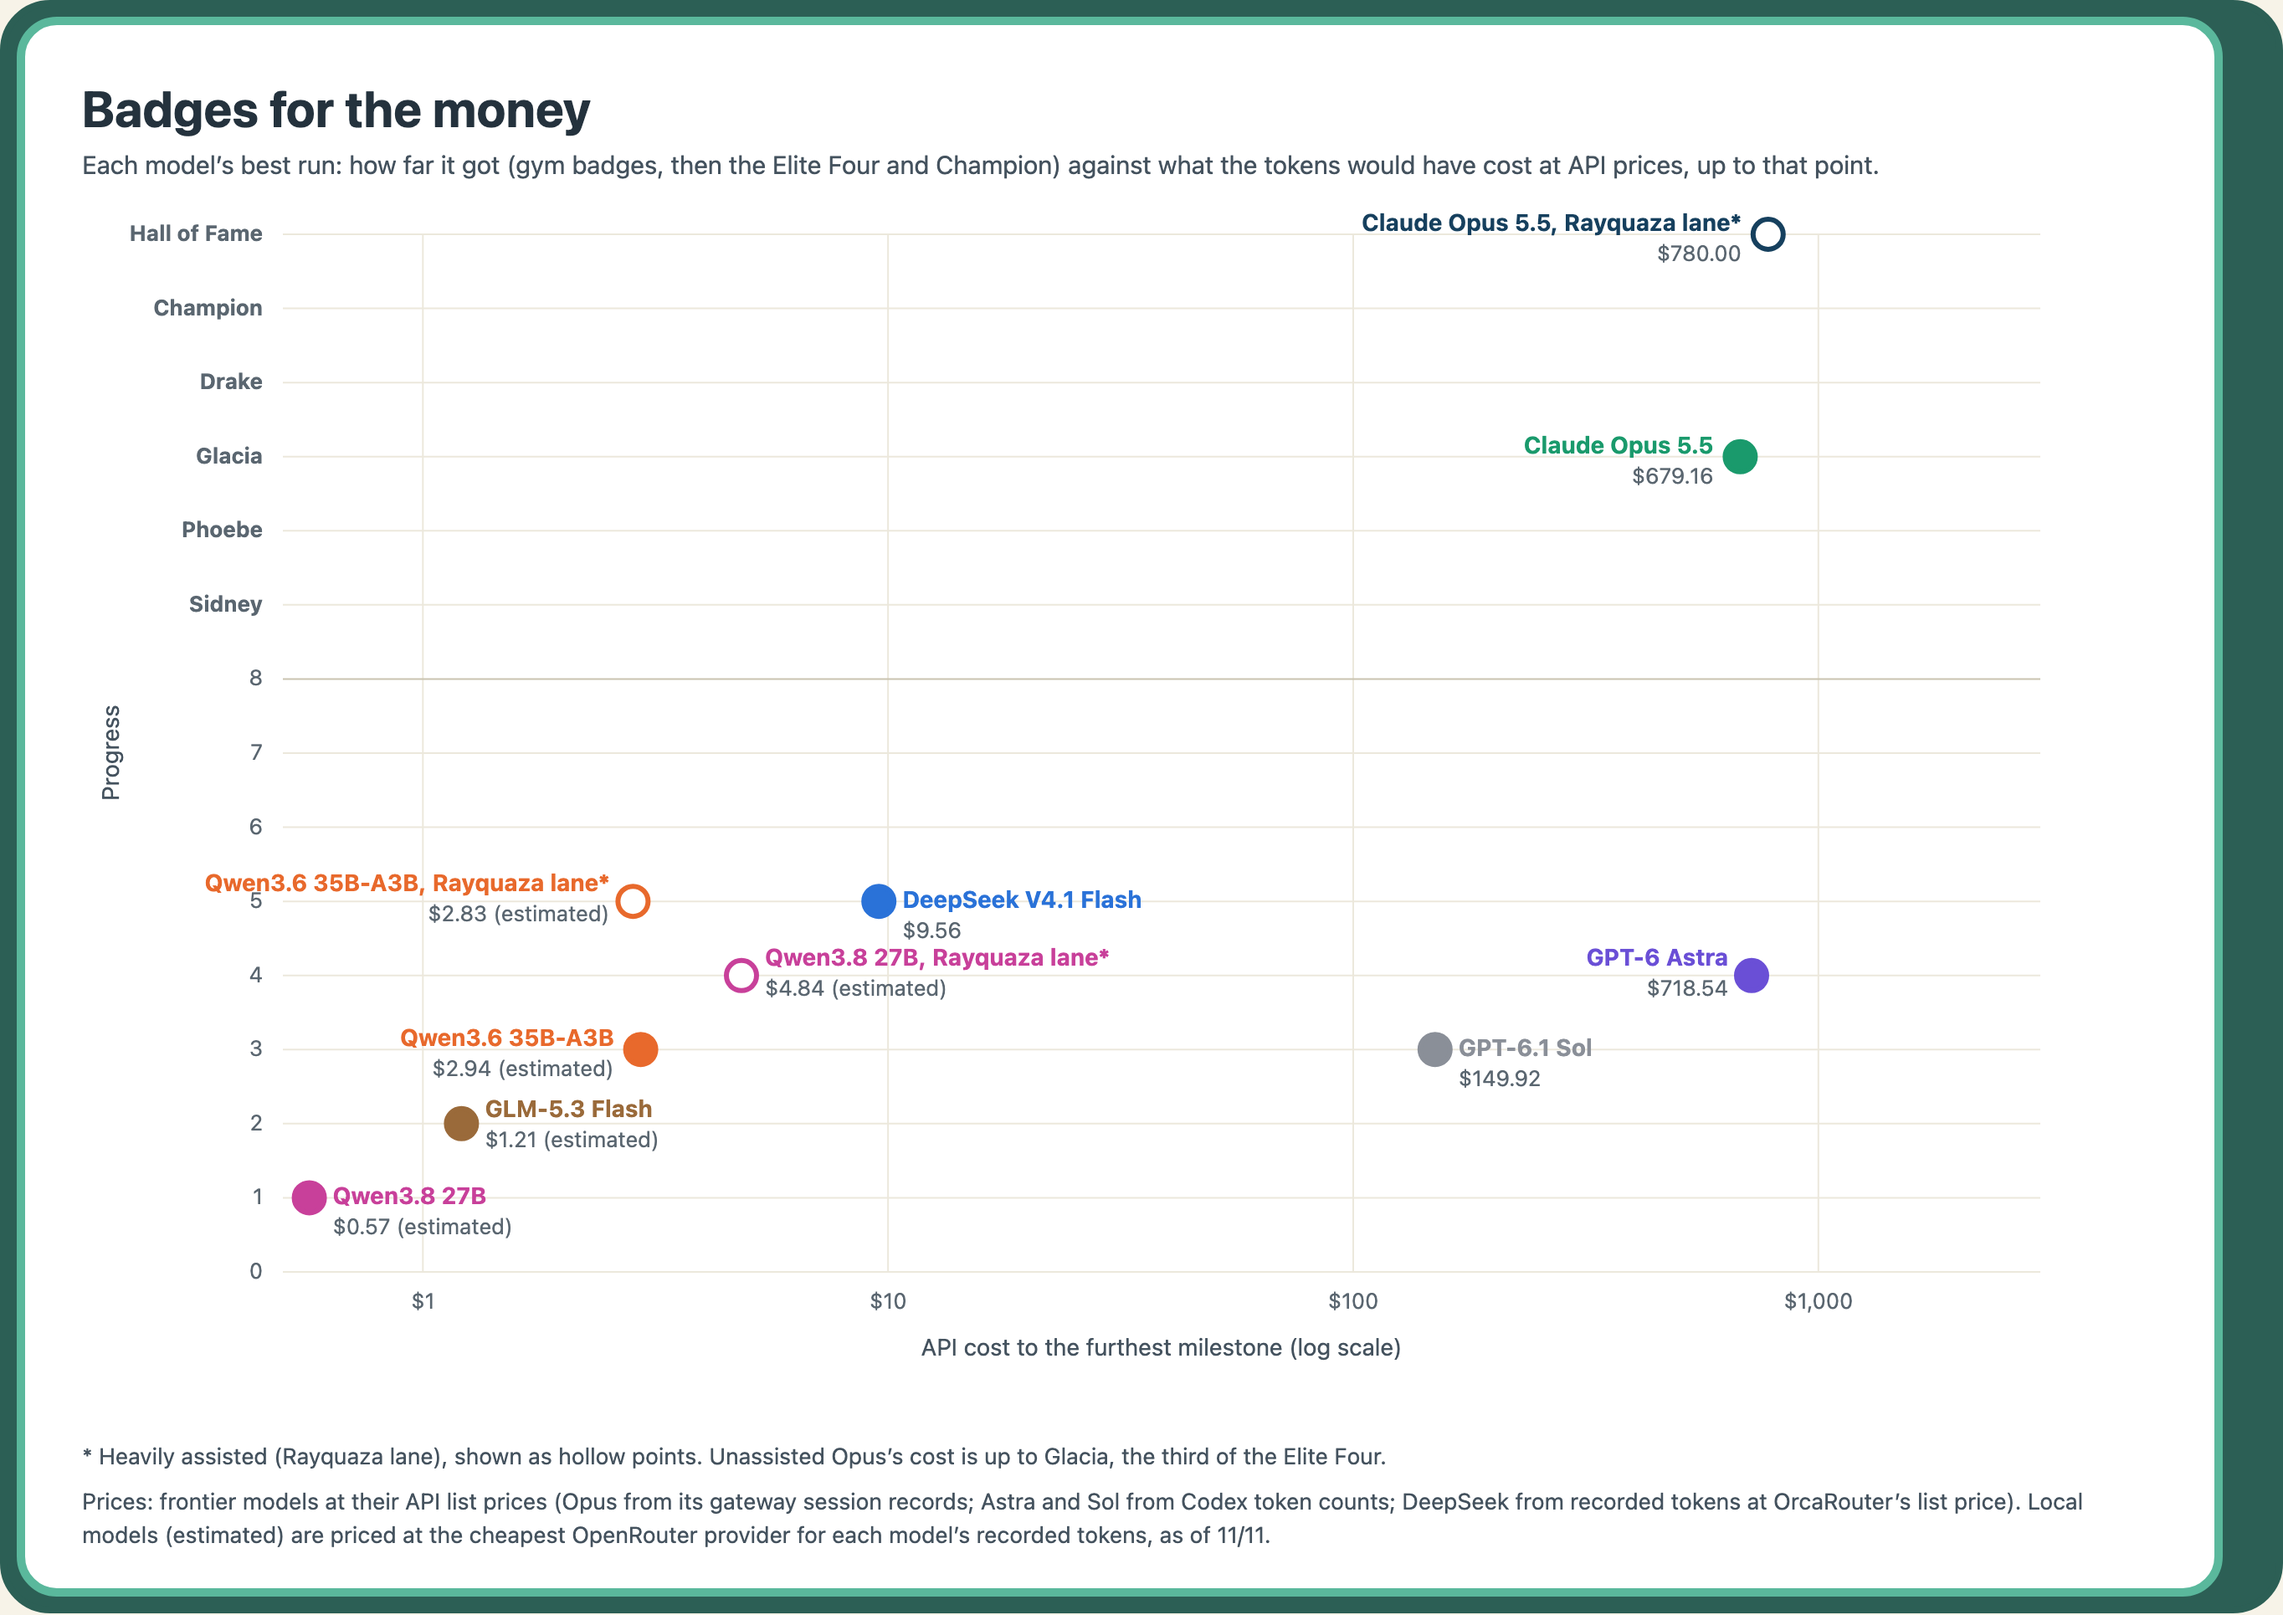
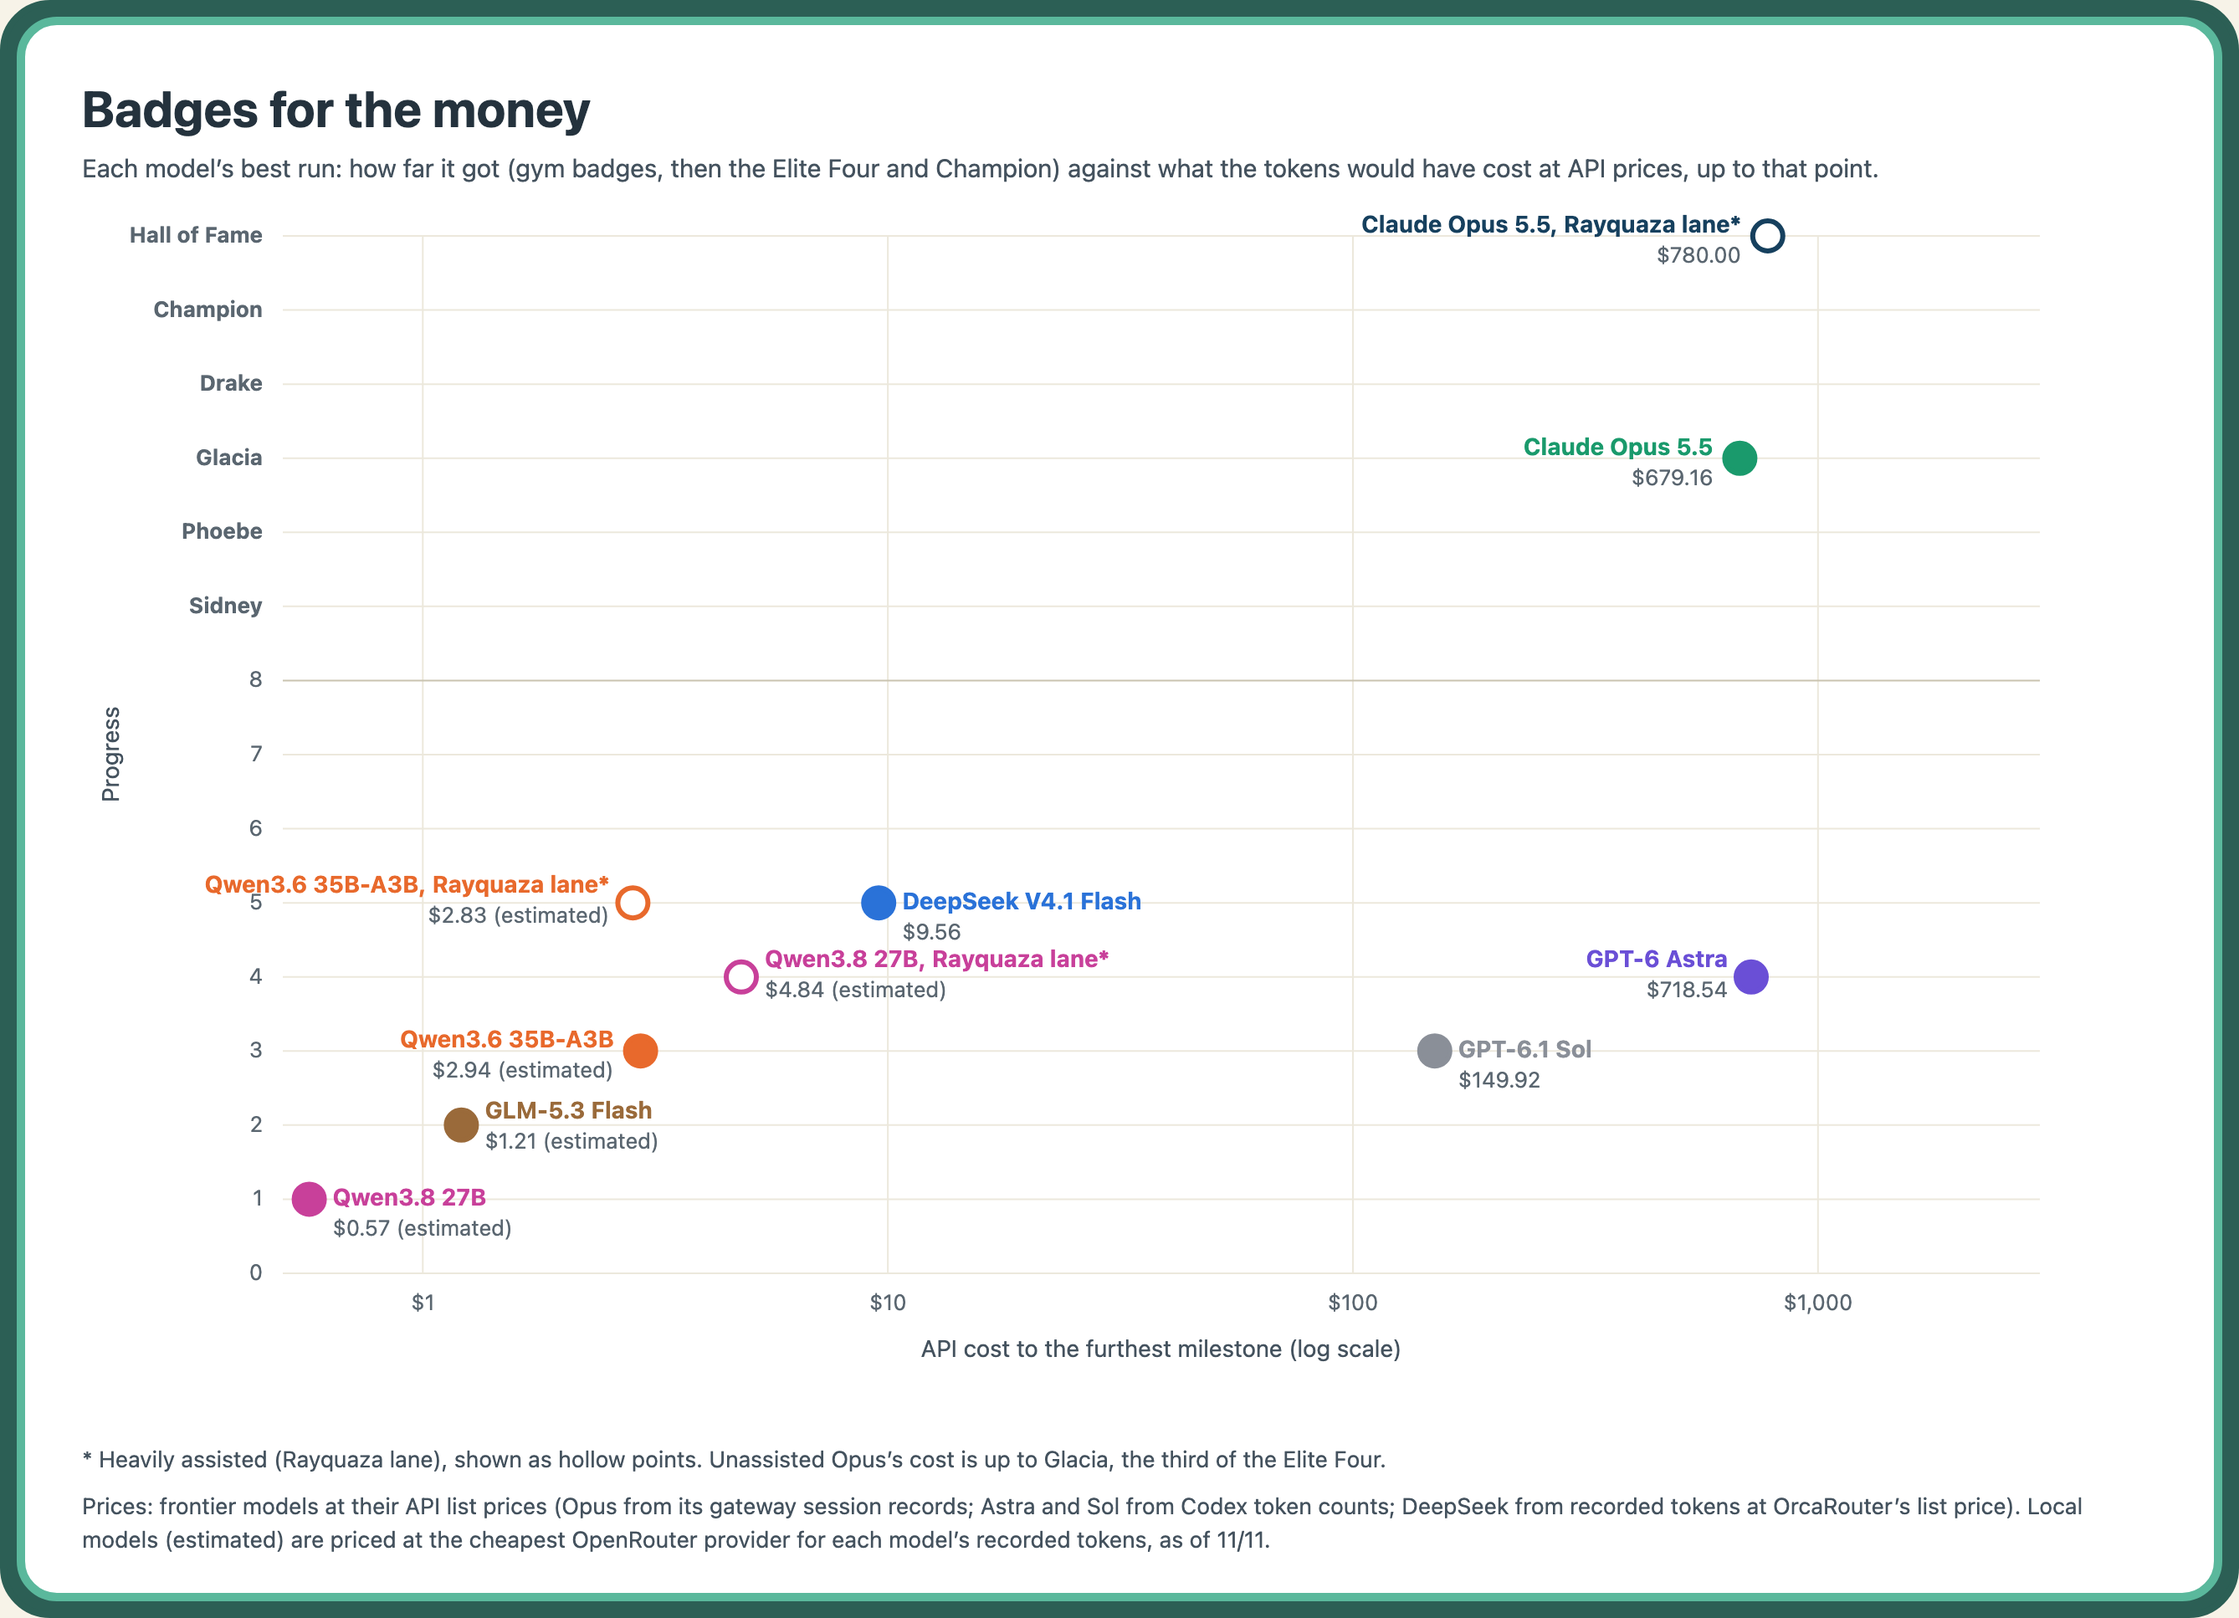
fix(charts): even outer border and no page strip on the README chart PNGs (GREEN)

diff --git a/env/pokebench_env/readme_charts.py b/env/pokebench_env/readme_charts.py
@@ -485,14 +485,18 @@ def endlabel(n: int) -> str:
 
 
 # .in is as wide as the charts' SVG, so the card never clips the legend's right edge whatever the
-# browser window; render with a viewport of at least 1400 px.
+# browser window; render with a viewport of at least 1400 px. The card hugs .in so the outer band is
+# even on every side, and whole-pixel line heights keep its height whole, so the element screenshot
+# takes no strip of page background.
 CSS = (
     "body{margin:0;background:#f7f3e8;font-family:-apple-system,BlinkMacSystemFont,"
     '"Helvetica Neue",Arial,sans-serif;color:#24323d}\n'
-    """.card{margin:18px;border:4px solid #2c5f55;border-radius:30px;padding:6px;background:#2c5f55}
-.in{background:#fff;border:5px solid #5ab89c;border-radius:24px;padding:28px 34px 22px;width:1240px}
-h1{font-size:30px;margin:4px 0 6px}p{margin:0;color:#44525e;font-size:15px;line-height:1.45}"""
-    ".note{margin-top:8px;font-size:13.5px}"
+    ".card{width:fit-content;margin:18px;border:4px solid #2c5f55;border-radius:30px;padding:6px;"
+    "background:#2c5f55}\n"
+    ".in{background:#fff;border:5px solid #5ab89c;border-radius:24px;padding:28px 34px 22px;"
+    "width:1240px}\nh1{font-size:30px;line-height:36px;margin:4px 0 6px}"
+    "p{margin:0;color:#44525e;font-size:15px;line-height:22px}"
+    ".note{margin-top:8px;font-size:13.5px;line-height:20px}"
 )
 
 

diff --git a/docs/worklogs/active/2026-11-11_readme-chart-border.md b/docs/worklogs/active/2026-11-11_readme-chart-border.md
@@ -11,9 +11,10 @@ The operator (2026-11-11): "why is the right border so large? looks weird and un
 
 ## Plan
 
-- [ ] `.card{width:fit-content}`; whole-pixel line heights for h1 (36 px), p (22 px) and .note (20 px).
-- [ ] Rebuild with `just readme-charts html`; measure all four outer bands in both PNGs (expect 20 px each at 2x) and confirm there is no cream strip.
+- [x] `.card{width:fit-content}`; whole-pixel line heights for h1 (36 px), p (22 px) and .note (20 px).
+- [x] Rebuild with `just readme-charts html`; measure all four outer bands in both PNGs (expect 20 px each at 2x) and confirm there is no cream strip.
 
 ## Log
 
 - 2026-11-11 5:25 PM: RED. test_card_hugs_the_chart_at_whole_pixel_heights fails.
+- 2026-11-11 5:32 PM: GREEN. `.card{width:fit-content}`; h1, p and .note line heights are 36, 22 and 20 px. 46 tests pass (no-I/O guard); ruff, format and mypy are clean; check-points matches. Rebuilt both PNGs (html stage run against the worktree module, since the recipe's `python -I` resolves the shared venv's editable install to the main checkout). Measured at 2x: left, right, top and bottom outer bands are all 20 px in both PNGs (badges-over-time 2676x2214, badges-for-the-money 2676x1934), and every edge pixel outside the rounded corners is the dark band, so there is no cream strip. Viewed both. Copies are in runs/mockups/readme-chart-border/.
